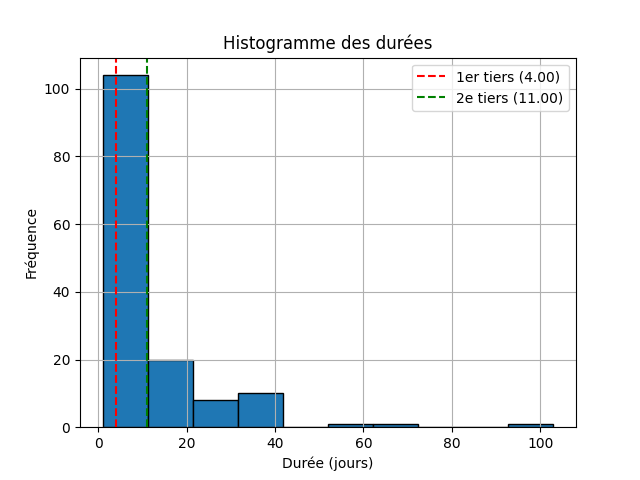
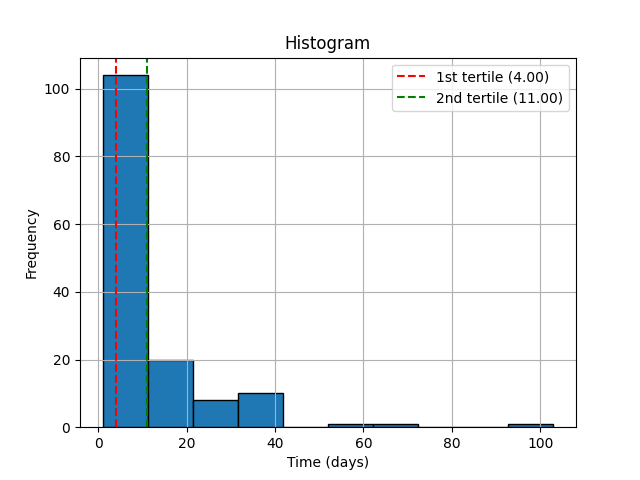
histogram in english

diff --git a/data_preprocessing/multi_classes.py b/data_preprocessing/multi_classes.py
@@ -27,11 +27,11 @@ def histo(label):
 
     # Construction de l'histogramme
     plt.hist(serie, bins=10, edgecolor='black')
-    plt.axvline(q1, color='r', linestyle='dashed', linewidth=1.5, label=f'1er tiers ({q1:.2f})')
-    plt.axvline(q2, color='g', linestyle='dashed', linewidth=1.5, label=f'2e tiers ({q2:.2f})')
-    plt.title("Histogramme des durées")
-    plt.xlabel("Durée (jours)")
-    plt.ylabel("Fréquence")
+    plt.axvline(q1, color='r', linestyle='dashed', linewidth=1.5, label=f'1st tertile ({q1:.2f})')
+    plt.axvline(q2, color='g', linestyle='dashed', linewidth=1.5, label=f'2nd tertile ({q2:.2f})')
+    plt.title("Histogram")
+    plt.xlabel("Time (days)")
+    plt.ylabel("Frequency")
     plt.legend()
     plt.grid(True)
     plt.savefig(f"{configs.DIR}/results/histogram - {label}.png") 
